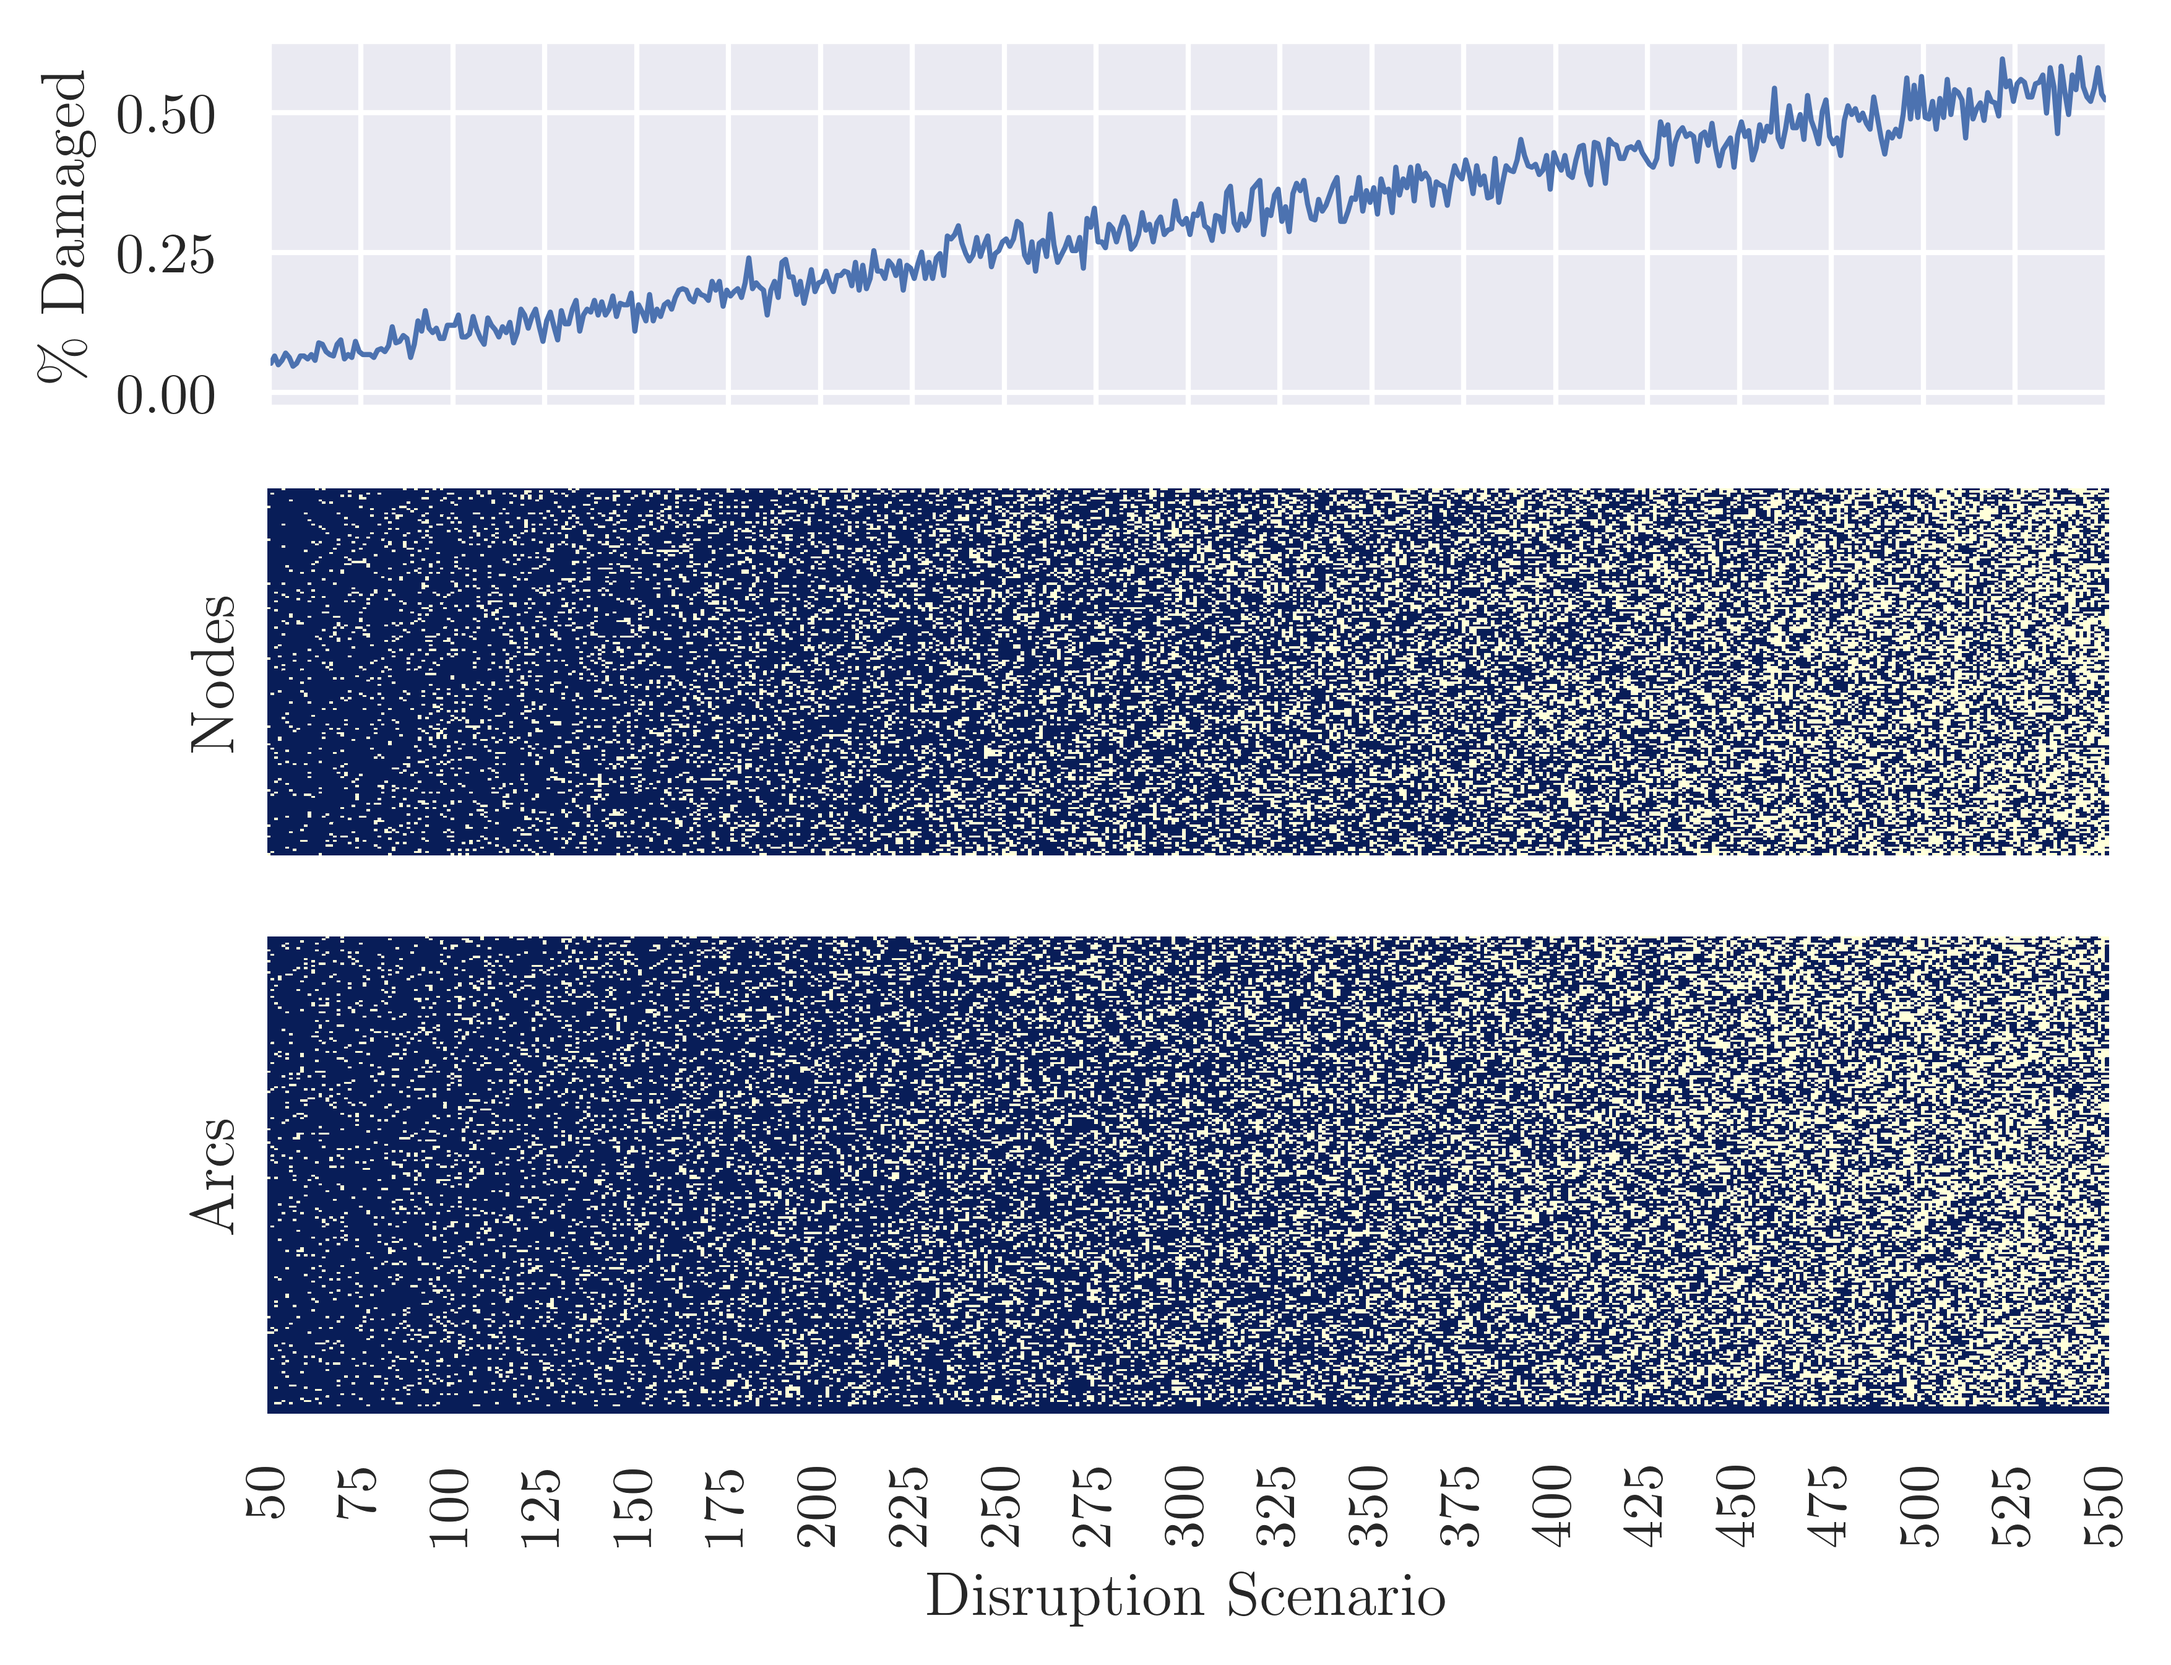
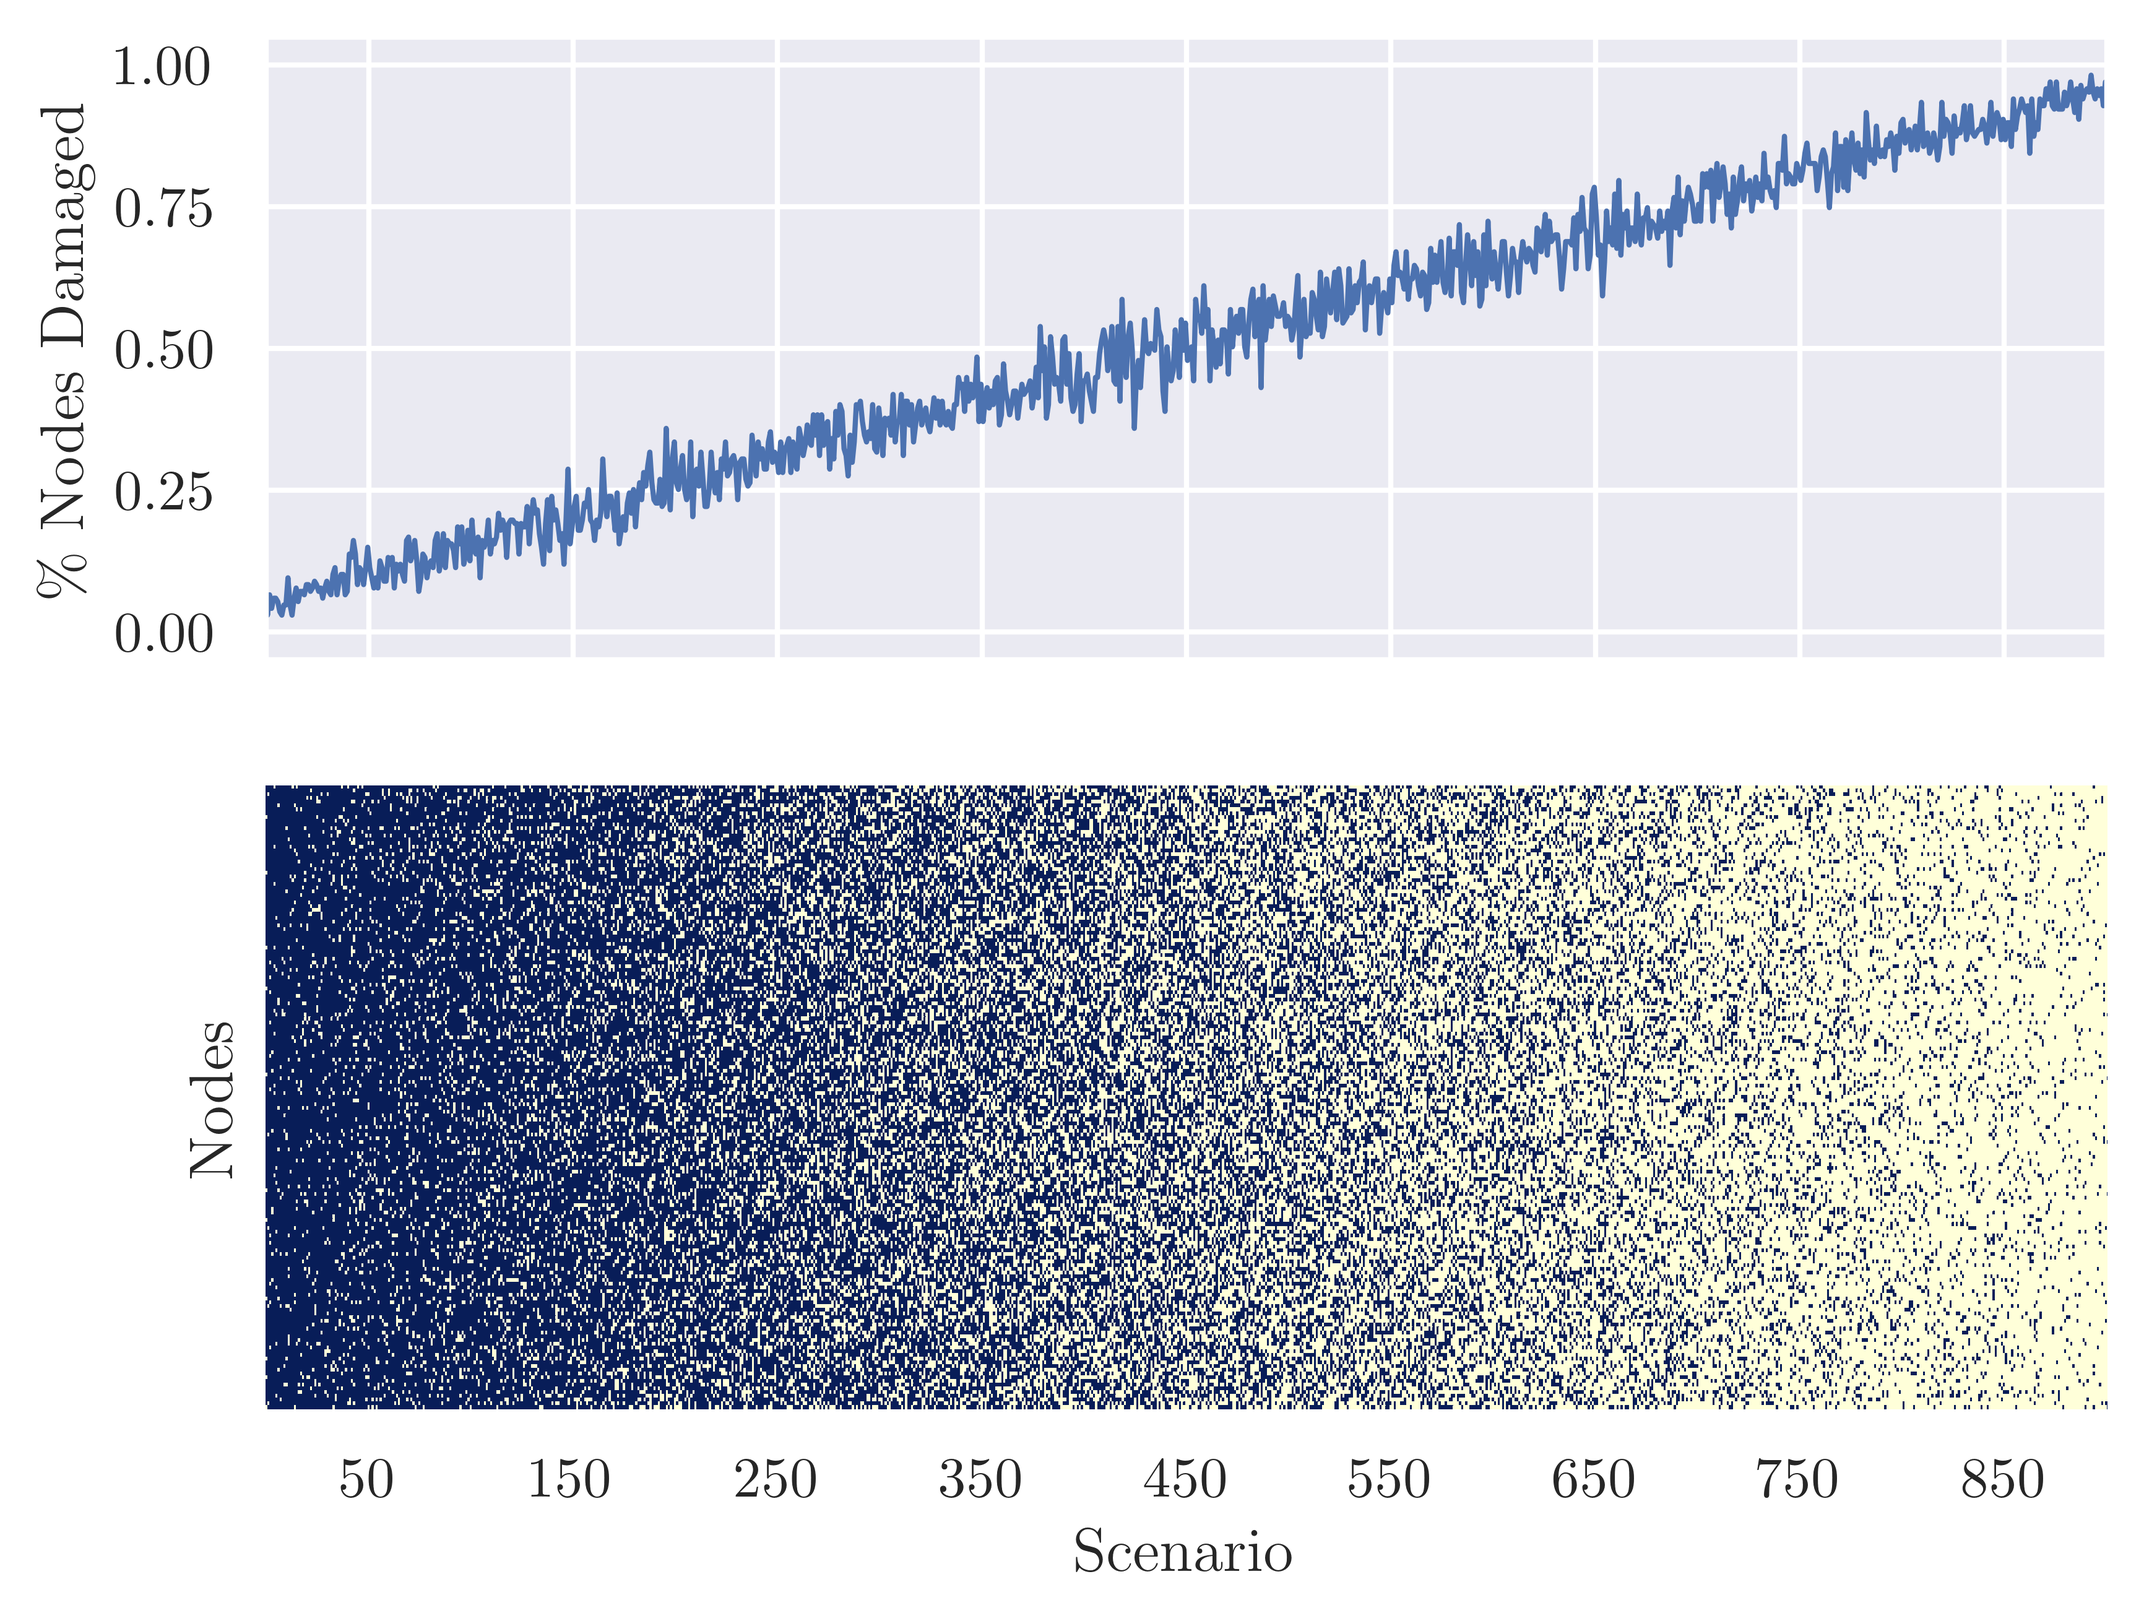
minor

diff --git a/data/random_disruption_shelby/generate_random_scenarios.py b/data/random_disruption_shelby/generate_random_scenarios.py
@@ -44,22 +44,29 @@ import matplotlib.pyplot as plt
 # plt.xlim(0,500)
 
 import seaborn as sns
+plt.close('all')
 sns.set(context='notebook',style='darkgrid')
 plt.rc('text', usetex=True)
 plt.rc('font', **{'family': 'serif', 'serif': ['Computer Modern']})
-f,ax=plt.subplots(3,1,sharex=True,gridspec_kw={'height_ratios': [2,2,2.6]})
+f,ax=plt.subplots(2,1,sharex=True,gridspec_kw={'height_ratios': [2,2]})#f,ax=plt.subplots(3,1,sharex=True,gridspec_kw={'height_ratios': [2,2,2.6]})
 folder='C:/Users/ht20\Documents/GitHub/td-DINDP/data/random_disruption_shelby/'
 node_data=np.genfromtxt(folder+'Initial_node.csv',delimiter=',')
 arc_data=np.genfromtxt(folder+'Initial_links.csv',delimiter=',')
+num_sce = 900
 
-sns.heatmap(node_data[:,2:432], xticklabels=25, yticklabels=False,ax=ax[1], cbar=False,  cmap="YlGnBu")
+sns.heatmap(node_data[:,2:], xticklabels=100, yticklabels=False,ax=ax[1], cbar=False,  cmap="YlGnBu")
 ax[1].set_ylabel('Nodes')
-sns.heatmap(arc_data[:,4:434], xticklabels=25, yticklabels=False,ax=ax[2], cbar=False,  cmap="YlGnBu")
-ax[2].set_xlabel('Disruption Scenario')
-ax[2].set_ylabel('Arcs')
-data=np.vstack((node_data[:,2:432],arc_data[:,4:434]))
+ax[1].set_xlabel('Scenario')
+
+# sns.heatmap(arc_data[:,4:], xticklabels=25, yticklabels=False,ax=ax[2], cbar=False,  cmap="YlGnBu")
+# ax[2].set_xlabel('Disruption Scenario')
+# ax[2].set_ylabel('Arcs')
+
+data = node_data[:,2:] #np.vstack((node_data[:,2:],arc_data[:,4:]))
 means=1-data.mean(axis=0)
-sns.lineplot(x=range(0,430),y=means,ax=ax[0],lw=1)
-ax[0].set_ylabel(r'\% Damaged')
-plt.xlim(50,551)
-# plt.savefig('Disruption_scenarios.png',dpi=600,bbox_inches='tight')
+sns.lineplot(x=range(990),y=means,ax=ax[0],lw=1)
+ax[0].set_ylabel(r'\% Nodes Damaged')
+
+ax[1].set_xticklabels(np.arange(-50, -50+num_sce+1, 100))
+plt.xlim(50,num_sce+50+1)
+plt.savefig('Disruption_scenarios.png',dpi=600,bbox_inches='tight')
